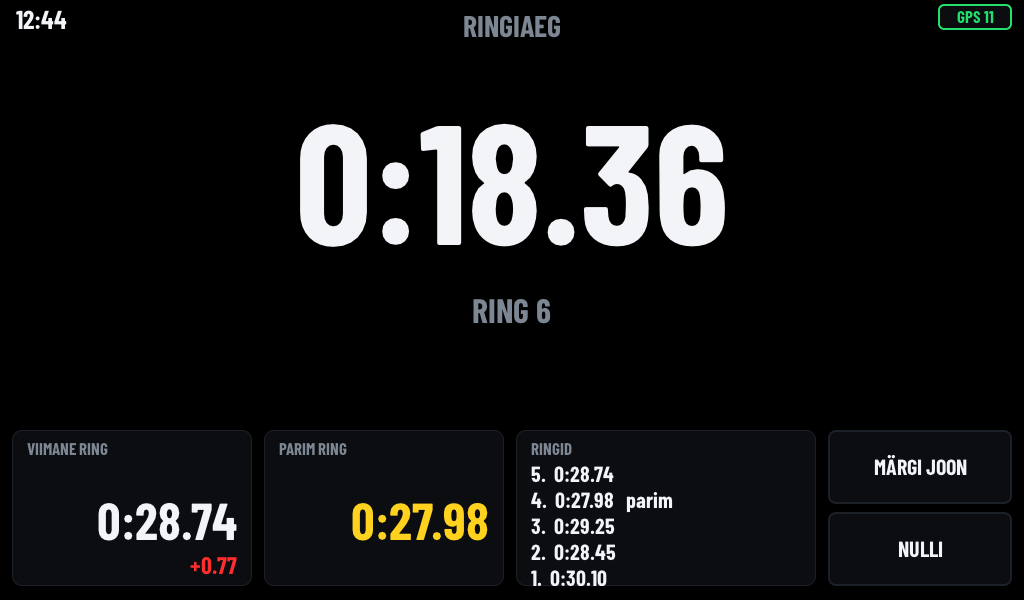
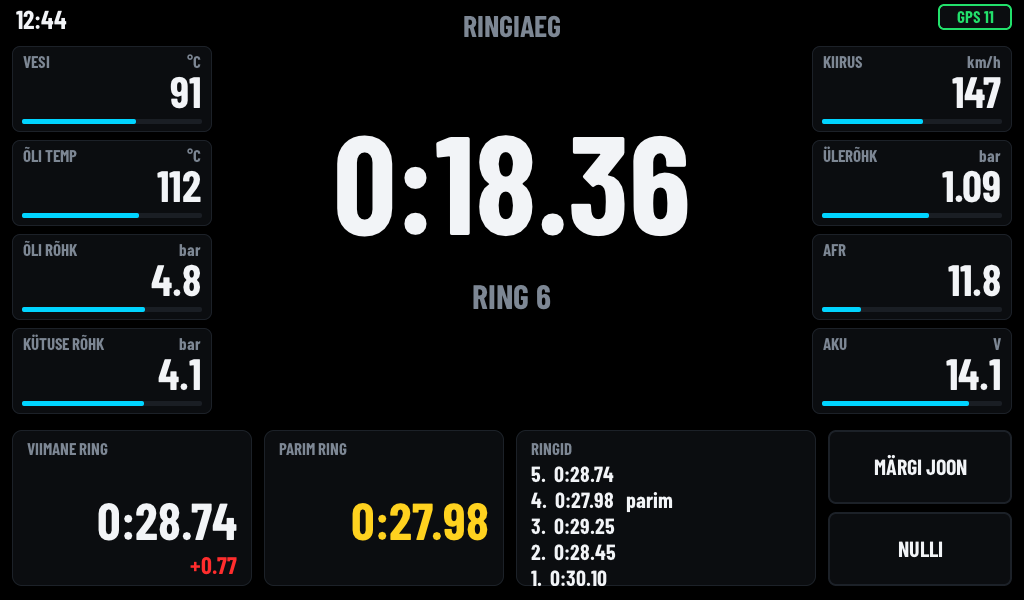
RING view: 4 + 4 side tiles with key readings
Configurable via DASH_LAP_LEFT / DASH_LAP_RIGHT; warning banner moved to the free
center area in this view.

diff --git a/main/page_lap.c b/main/page_lap.c
@@ -11,6 +11,11 @@
 #include "gps_pages.h"
 
 #define N_HIST 5
+
+static const dash_tile_t TL[] = DASH_LAP_LEFT;
+static const dash_tile_t TR[] = DASH_LAP_RIGHT;
+#define N_TL (sizeof(TL) / sizeof(TL[0]))
+#define N_TR (sizeof(TR) / sizeof(TR[0]))
 #define DEG2RAD 0.017453292519943295
 
 static struct {
@@ -30,6 +35,7 @@ static struct {
     lv_obj_t *time, *info, *hint, *last_v, *best_v, *delta_v, *hist_l;
     char     t_time[16], t_info[40], t_last[16], t_best[16], t_delta[16], t_hist[96];
     int8_t   hint_shown, delta_col;
+    dash_tile_obj_t tiles[N_TL + N_TR];
     bool     time_on;
 } p;
 
@@ -154,20 +160,31 @@ static void create(lv_obj_t *scr)
     lv_obj_t *title = dash_label(scr, 30, C_DIM, "RINGIAEG");
     lv_obj_align(title, LV_ALIGN_TOP_MID, 0, 8);
 
-    p.time = dash_label(scr, 170, C_DIM, "0:00.00");
-    lv_obj_set_width(p.time, 900);
+    /* külgedel 4 + 4 näidikut, keskel ringiaeg */
+    const int tw = 200, th = 86, tg = 8, ty = 46;
+    for (size_t i = 0; i < N_TL; i++) {
+        dash_tile_create(&p.tiles[i], &TL[i], scr, 12, ty + i * (th + tg), tw, th, 44);
+    }
+    for (size_t i = 0; i < N_TR; i++) {
+        dash_tile_create(&p.tiles[N_TL + i], &TR[i], scr, W - 12 - tw, ty + i * (th + tg), tw, th, 44);
+    }
+    const int cx = 12 + tw + 12, cw = W - 2 * cx;
+
+    p.time = dash_label(scr, 140, C_DIM, "0:00.00");
+    lv_obj_set_width(p.time, cw);
     lv_obj_set_style_text_align(p.time, LV_TEXT_ALIGN_CENTER, 0);
-    lv_obj_set_pos(p.time, (W - 900) / 2, 76);
+    lv_obj_set_pos(p.time, cx, 96);
 
     p.info = dash_label(scr, 34, C_DIM, "");
-    lv_obj_set_width(p.info, 600);
+    lv_obj_set_width(p.info, cw);
     lv_obj_set_style_text_align(p.info, LV_TEXT_ALIGN_CENTER, 0);
-    lv_obj_set_pos(p.info, (W - 600) / 2, 290);
+    lv_obj_set_pos(p.info, cx, 276);
 
     p.hint = dash_label(scr, 24, C_YELLOW, "Sõida start/finiš joonele ja vajuta  MÄRGI JOON");
-    lv_obj_set_width(p.hint, 900);
+    lv_obj_set_width(p.hint, cw);
+    lv_label_set_long_mode(p.hint, LV_LABEL_LONG_MODE_WRAP);
     lv_obj_set_style_text_align(p.hint, LV_TEXT_ALIGN_CENTER, 0);
-    lv_obj_set_pos(p.hint, (W - 900) / 2, 352);
+    lv_obj_set_pos(p.hint, cx, 336);
     p.hint_shown = -1;
 
     lv_obj_t *b1 = panel(scr, 12, 240, "VIIMANE RING");
@@ -190,6 +207,7 @@ static void create(lv_obj_t *scr)
 static void update(const dash_state_t *s)
 {
     char buf[96];
+    for (size_t i = 0; i < N_TL + N_TR; i++) dash_tile_update(&p.tiles[i], s);
     if (p.running) dash_fmt_time((s->now_us - p.lap_start) / 1e6f, true, buf, 16);
     else snprintf(buf, 16, "0:00.00");
     dash_set_text_if(p.time, p.t_time, sizeof(p.t_time), buf);
@@ -243,4 +261,4 @@ static void update(const dash_state_t *s)
     dash_set_text_if(p.hist_l, p.t_hist, sizeof(p.t_hist), buf);
 }
 
-const dash_page_t page_lap = { "RING", 470, create, update, background, dash_need_gps, 938, 4, 16, 4, 856, 4 };
+const dash_page_t page_lap = { "RING", 346, create, update, background, dash_need_gps, 938, 4, 16, 4, 856, 4 };

diff --git a/main/dash_config.h b/main/dash_config.h
@@ -107,6 +107,20 @@ typedef struct {
 #define DASH_ACCEL_START_KMH  1.0f    /* liikumise algus */
 #define DASH_ACCEL_MAX_KMHS   60.0f   /* suurem kiirendus (km/h sekundis, ~1,7 g) = GPS-i viga, mõõtmine katkeb */
 
+/* RING vaate külgede näidikud (4 + 4) */
+#define DASH_LAP_LEFT { \
+    { SIG_CLT,        "VESI",        "°C",   0, 1.0f,  40, 120 }, \
+    { SIG_OIL_TEMP,   "ÕLI TEMP",    "°C",   0, 1.0f,  40, 150 }, \
+    { SIG_OIL_PRESS,  "ÕLI RÕHK",    "bar",  1, 0.01f, 0,  7   }, \
+    { SIG_FUEL_PRESS, "KÜTUSE RÕHK", "bar",  1, 0.01f, 0,  6   }, \
+}
+#define DASH_LAP_RIGHT { \
+    { SIG_SPEED,      "KIIRUS",      "km/h", 0, 1.0f,  0,  DASH_SPEED_MAX }, \
+    { SIG_BOOST_BAR,  "ÜLERÕHK",     "bar",  2, 1.0f,  -1, 2.5f }, \
+    { SIG_AFR,        "AFR",         "",     1, 1.0f,  10, 18  }, \
+    { SIG_BATT,       "AKU",         "V",    1, 1.0f,  10, 15  }, \
+}
+
 /* Ringiaeg: start/finiš joone laius (m) ja lühim võimalik ring (s) */
 #define DASH_LAP_GATE_M       25.0f
 #define DASH_LAP_MIN_S        10.0f    /* KELLAD vaate spidomeetri skaala lõpp (km/h) */

diff --git a/CHANGELOG.md b/CHANGELOG.md
@@ -1,5 +1,9 @@
 # Muudatused
 
+## Avaldamata
+- RING vaates 4 + 4 näidikut külgedel (vaikimisi vesi, õli temp/rõhk, kütuse rõhk | kiirus, ülerõhk, AFR, aku;
+  muuda `DASH_LAP_LEFT` / `DASH_LAP_RIGHT`). Hoiatusriba on RING vaates keskel.
+
 ## v0.21 – 2026-11-19
 - GPS ikoon on igas vaates paremas servas, DEMO märk sellest vasakul.
 - 0–100: GPS-i hüpped ja katkestused (kiirendus üle 60 km/h/s või üle 0,5 s vahe) ei anna enam vale tulemust.
